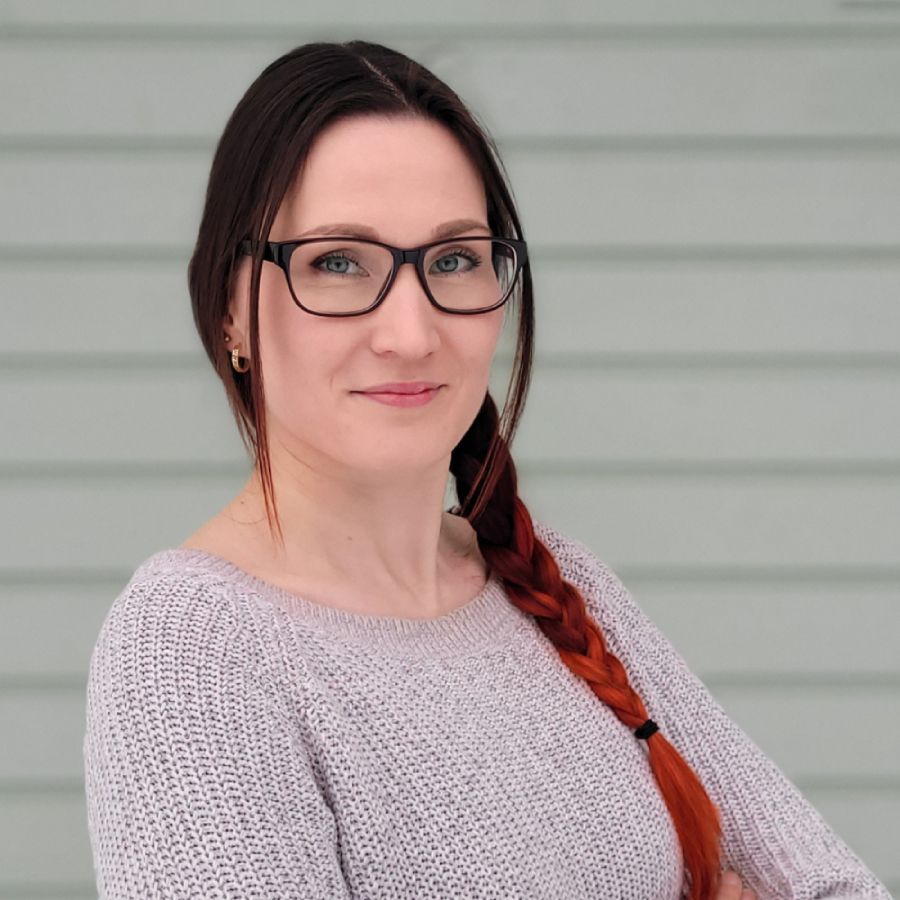
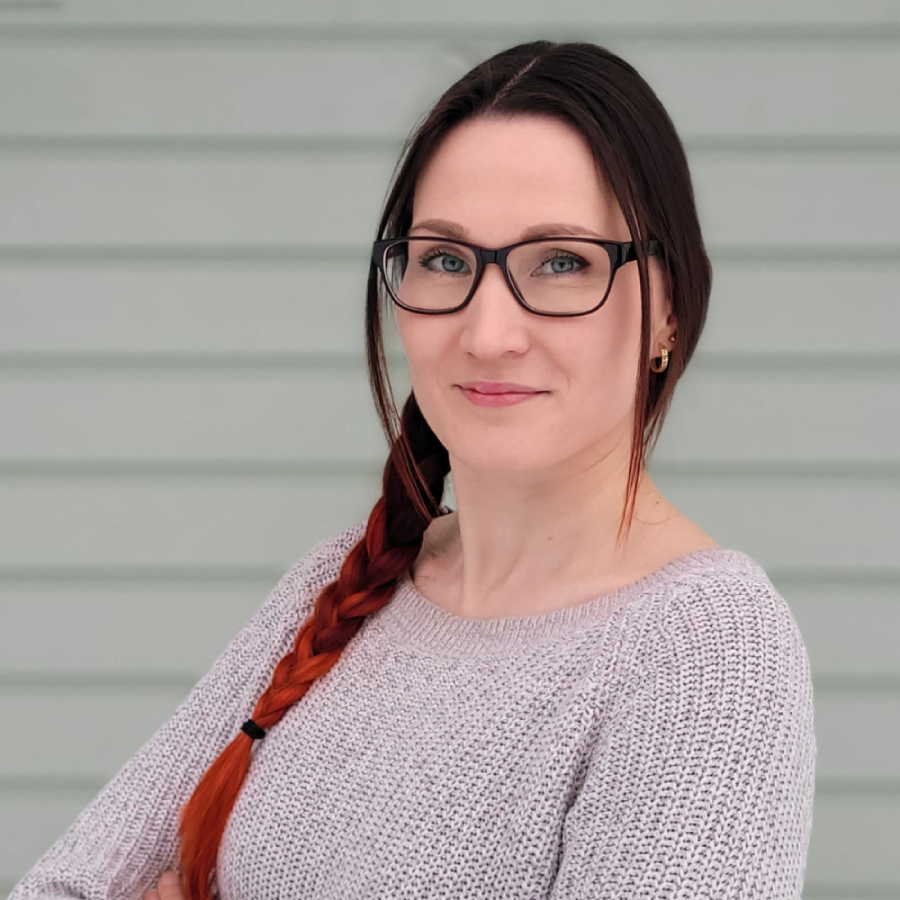
Adjusting the portrait

diff --git a/styles.css b/styles.css
@@ -161,11 +161,12 @@ h5 {
     margin-left: 7%;
 }
 
+
+/* KORJAA KUVA MENEMÄÄN YLÄPALKIN ALLE! */
 .portrait {
     width: 60%;
     border-radius: 50%;
     box-shadow: -1px -1px 20px 2px rgba(255, 153, 0, 0.35), 1px 1px 20px 2px rgba(255, 153, 0, 0.36);
-    transform: scaleX(-1);
     margin-top: 1em;
 }
 
